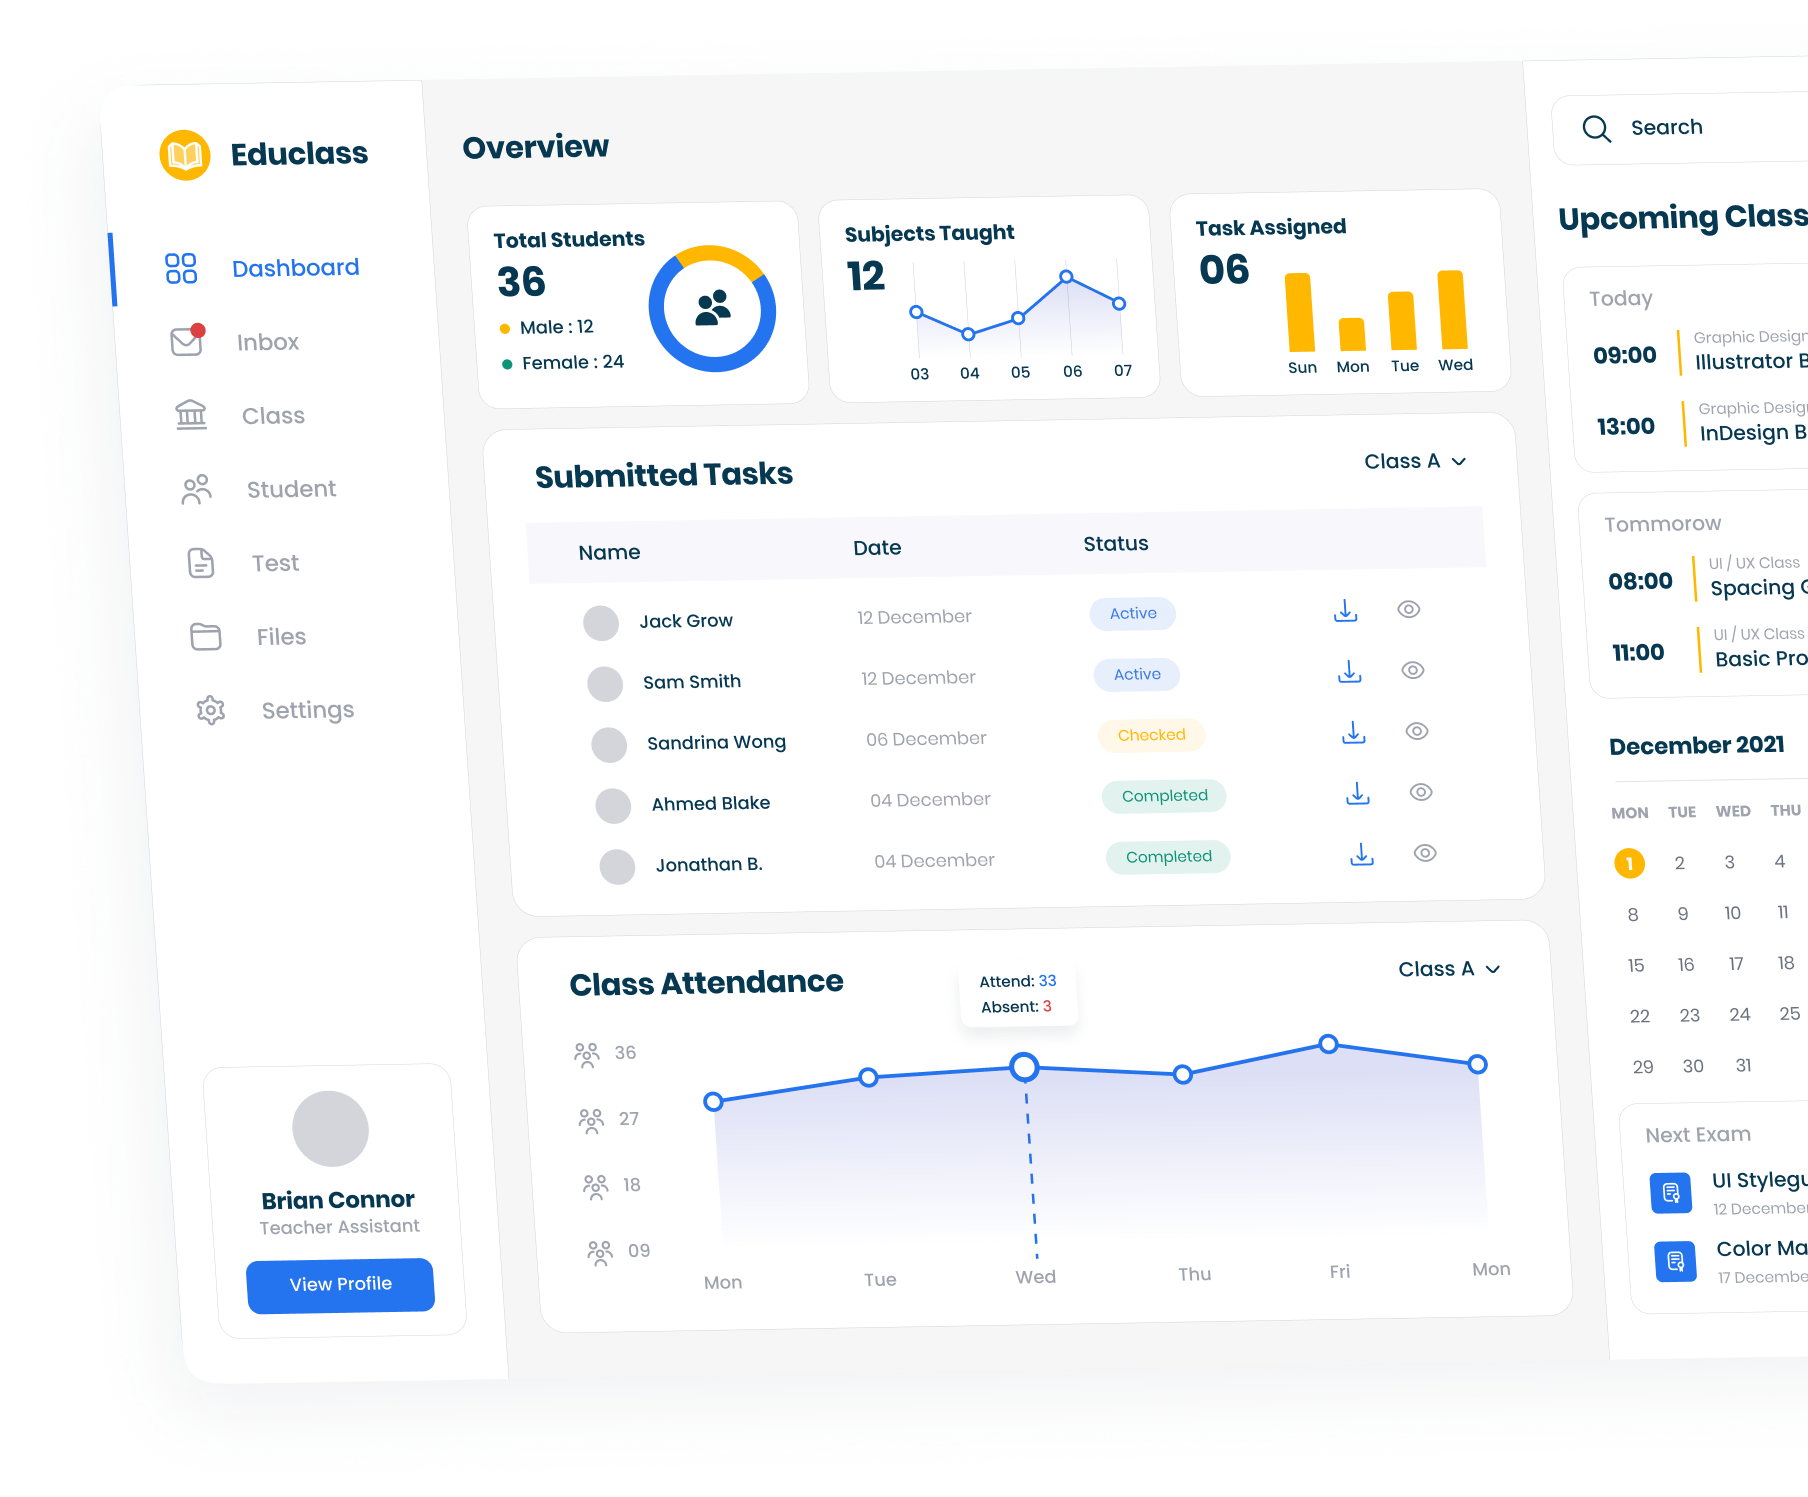
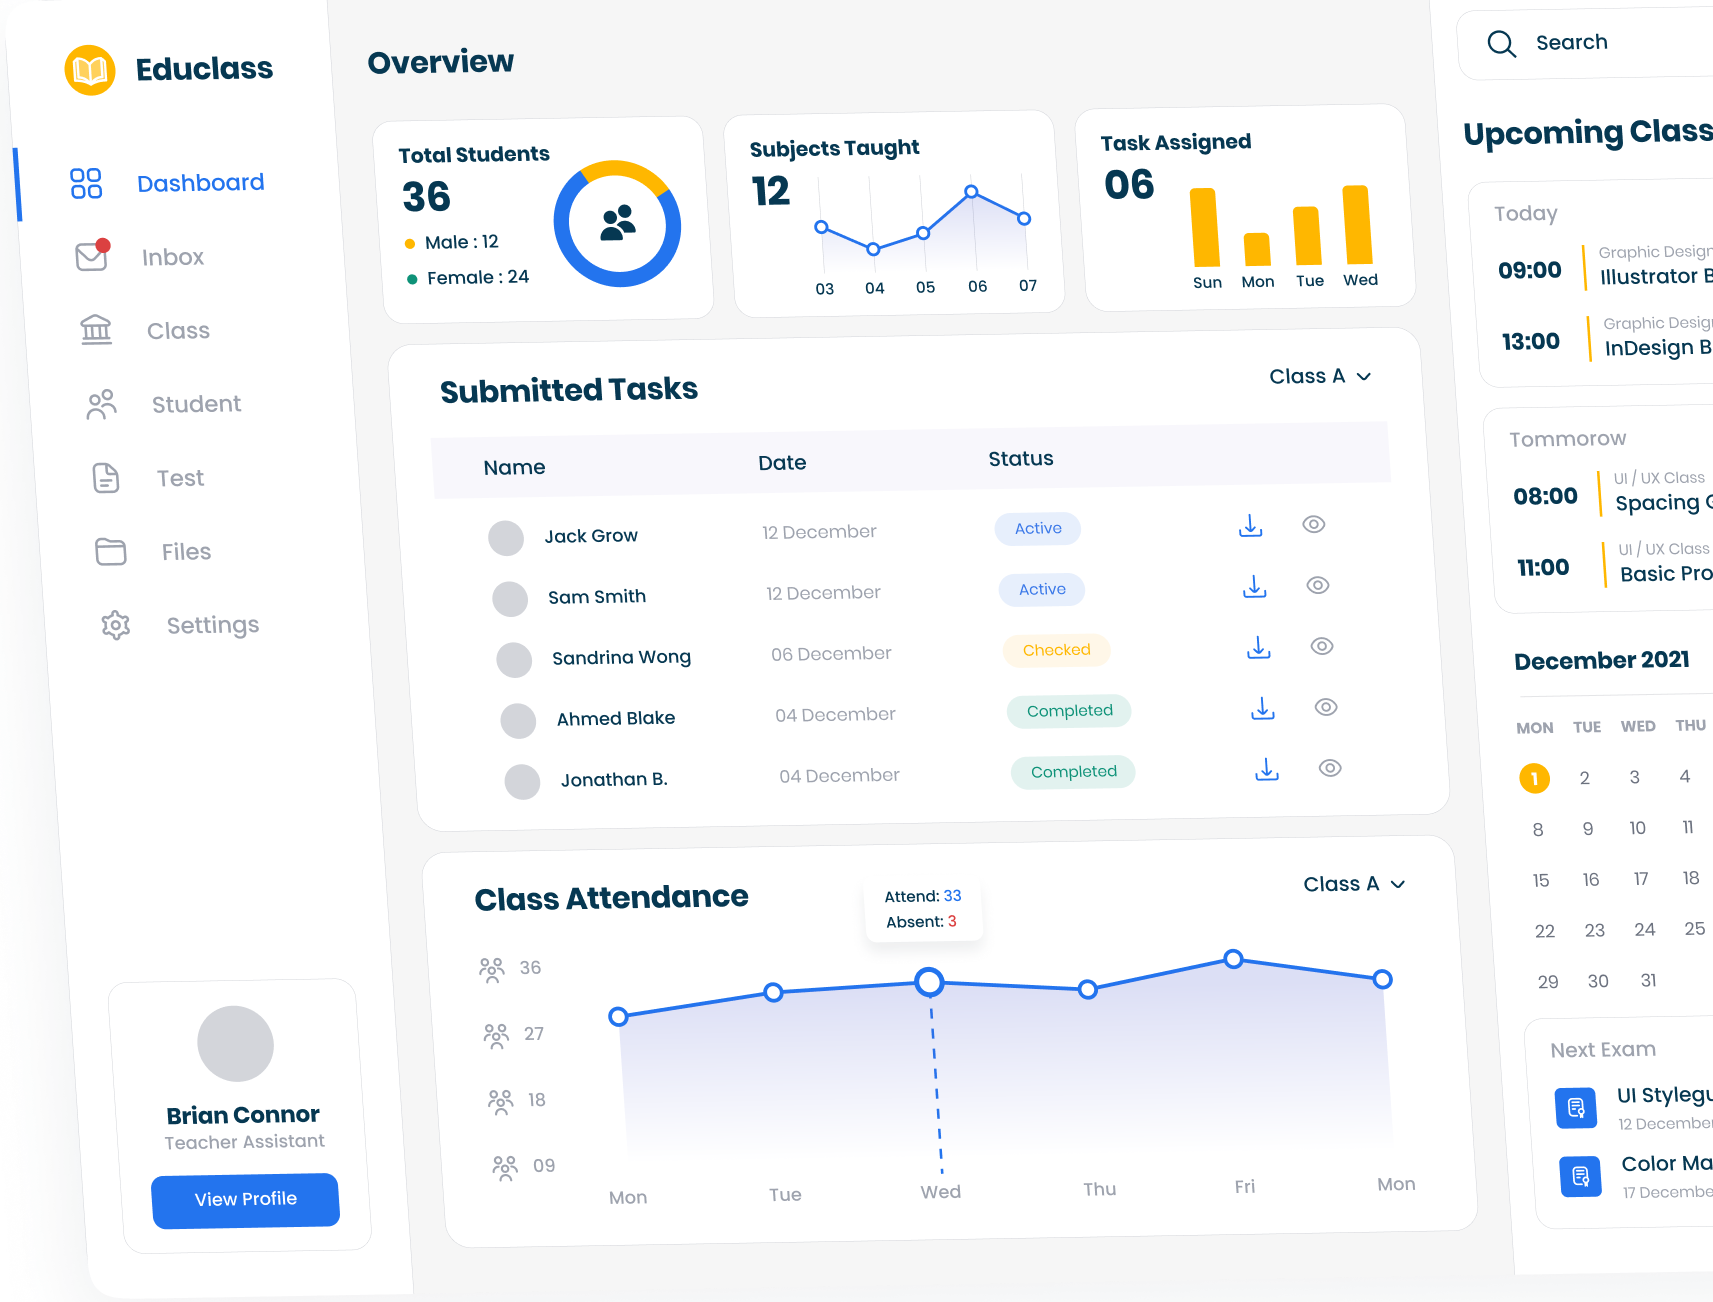
add: testimonials, pricing, footer

diff --git a/educlass/styles.css b/educlass/styles.css
@@ -10,20 +10,14 @@ body {
     color: #333;
 }
 
-/* Header Styles */
-header.header {
-    background-color: #ffffff;
+header {
     padding: 20px 0;
-    box-shadow: 0 2px 8px rgba(0, 0, 0, 0.05);
-    position: sticky;
-    top: 0;
-    z-index: 100;
+    background-color: #e6f1ff;
 }
 
-.header-container {
-    max-width: 1400px;
+.container {
+    width: 1100px;
     margin: 0 auto;
-    padding: 0 40px;
     display: flex;
     align-items: center;
     justify-content: space-between;
@@ -34,15 +28,15 @@ header.header {
     width: auto;
 }
 
-.nav-menu {
+nav {
     display: flex;
-    gap: 35px;
+    gap: 30px;
     align-items: center;
     flex: 1;
     margin-left: 60px;
 }
 
-.nav-menu a {
+nav a {
     text-decoration: none;
     color: #666;
     font-size: 14px;
@@ -50,41 +44,39 @@ header.header {
     transition: color 0.3s ease;
 }
 
-.nav-menu a:hover {
-    color: #1F7FFF;
+nav a:hover {
+    color: #2374EE;
 }
 
-.contact-btn {
-    background-color: #1F7FFF;
+button {
+    background-color: #2374EE;
     color: white;
     border: none;
-    padding: 10px 24px;
-    border-radius: 6px;
-    font-size: 14px;
-    font-weight: 600;
+    padding: 12px 24px;
+    border-radius: 20px;
+    font-size: 10px;
     cursor: pointer;
     transition: background-color 0.3s ease;
 }
 
-.contact-btn:hover {
+button:hover {
     background-color: #1a6dd9;
 }
 
-/* Hero Section */
-.hero-section {
-    background: linear-gradient(135deg, #f5f7fb 0%, #e8ecf5 100%);
-    padding: 80px 0;
-    min-height: 600px;
+main {
+    background: #e6f1ff;
+    min-height: 540px;
     display: flex;
     align-items: center;
+    position: relative;
+    margin-bottom: 4rem;
 }
 
 .container {
     max-width: 1400px;
     margin: 0 auto;
     padding: 0 40px;
-    display: grid;
-    grid-template-columns: 1fr 1fr;
+    display: flex;
     gap: 60px;
     align-items: center;
 }
@@ -103,14 +95,14 @@ header.header {
 }
 
 .hero-content .highlight {
-    color: #1F7FFF;
+    color: #2374EE;
 }
 
 .hero-content p {
     font-size: 16px;
     line-height: 1.6;
     color: #666;
-    max-width: 500px;
+    max-width: 400px;
 }
 
 .cta-buttons {
@@ -118,22 +110,6 @@ header.header {
     align-items: center;
     gap: 30px;
     margin-top: 12px;
-}
-
-.btn-primary {
-    background-color: #1F7FFF;
-    color: white;
-    border: none;
-    padding: 14px 32px;
-    border-radius: 6px;
-    font-size: 15px;
-    font-weight: 600;
-    cursor: pointer;
-    transition: background-color 0.3s ease;
-}
-
-.btn-primary:hover {
-    background-color: #1a6dd9;
 }
 
 .btn-demo {
@@ -149,7 +125,7 @@ header.header {
 }
 
 .btn-demo:hover {
-    color: #1F7FFF;
+    color: #2374EE;
 }
 
 .demo-icon {
@@ -160,7 +136,7 @@ header.header {
     height: 32px;
     background-color: rgba(31, 127, 255, 0.1);
     border-radius: 50%;
-    color: #1F7FFF;
+    color: #2374EE;
     font-size: 12px;
     transition: background-color 0.3s ease;
 }
@@ -169,37 +145,31 @@ header.header {
     background-color: rgba(31, 127, 255, 0.2);
 }
 
-/* Hero Image */
-.hero-image {
-    display: flex;
-    justify-content: center;
-    align-items: center;
+main img {
+    width: 58%;
+    max-width: 50%;
+    position: absolute;
+    right: 0;
+    bottom: -40px;
+    z-index: 1;
 }
 
-.hero-image img {
+section img {
     width: 100%;
-    max-width: 550px;
+    max-width: 1200px;
     height: auto;
-    box-shadow: 0 10px 40px rgba(0, 0, 0, 0.1);
-    border-radius: 10px;
+    display: block;
+    margin: 30px auto;
+    -webkit-user-drag: none;
+    user-drag: none;
 }
 
-/* About Section */
-.about {
-    padding: 80px 0;
+.testimonials div {
+    background-color: #2374EE;
+    height: 50vh;
+    margin-bottom: 200px;
 }
 
-.about-container {
-    max-width: 1400px;
-    margin: 0 auto;
-    padding: 0 40px;
-    display: flex;
-    justify-content: center;
-    align-items: center;
-}
-
-.about-container img {
-    width: 100%;
-    max-width: 800px;
-    height: auto;
+.footer {
+    background-color: #063852;
 }

diff --git a/educlass/index.html b/educlass/index.html
@@ -5,46 +5,65 @@
     <meta name="viewport" content="width=device-width, initial-scale=1.0">
     <link rel="stylesheet" href="styles.css">
     <title>Educlass</title>
+    <link rel="icon" href="images/icon.png">
 </head>
 <body>
     <header class="header">
-        <div class="header-container">
+        <div class="container">
             <div class="logo">
                 <img src="images/Logo.png" alt="Educlass Logo">
             </div>
-            <nav class="nav-menu">
+            <nav>
                 <a href="#home">Home</a>
                 <a href="#about">About</a>
                 <a href="#features">Features</a>
                 <a href="#pricing">Pricing</a>
                 <a href="#testimonials">Testimonials</a>
             </nav>
-            <button class="contact-btn">Contact Us</button>
+            <button>Contact Us</button>
         </div>
     </header>
 
-    <main class="hero-section">
+    <main>
         <div class="container">
             <div class="hero-content">
                 <h1>Modern<br>Solution for<br><span class="highlight">Education</span></h1>
                 <p>Streamline your educational strategy with our innovative learning by dashboards. Track student performance, attendance rates, test scores, and more.</p>
                 <div class="cta-buttons">
-                    <button class="btn-primary">Try Free Trial</button>
+                    <button>Try Free Trial</button>
                     <a href="#" class="btn-demo">
                         <span class="demo-icon">▶</span>
                         View Demo
                     </a>
                 </div>
             </div>
-            <div class="hero-image">
-                <img src="images/Dashboard.png" alt="Educlass Dashboard">
-            </div>
+            
         </div>
+        
+        <img src="images/Dashboard.png" alt="Educlass Dashboard">
     </main>
 
-    <section class="about">
-        <div class="about-container">
-            <img src="images/about.png" alt="About Educlass">
+    <section class="container">
+        <img src="images/about.png" alt="About Educlass">
+    </section>
+
+    <section class="container">
+        <img src="images/Features.png" alt="Features">
+    </section>
+
+    <section class="testimonials">
+        <div>
+            <img src="images/Testimonial.png" alt="Testimonial">
+        </div>
+    </section>
+
+    <section class="container">
+        <img src="images/Pricing.png" alt="Pricing">
+    </section>
+
+    <section class="footer">
+        <div>
+            <img src="images/Footer.png" alt="Footer">
         </div>
     </section>
 </body>
